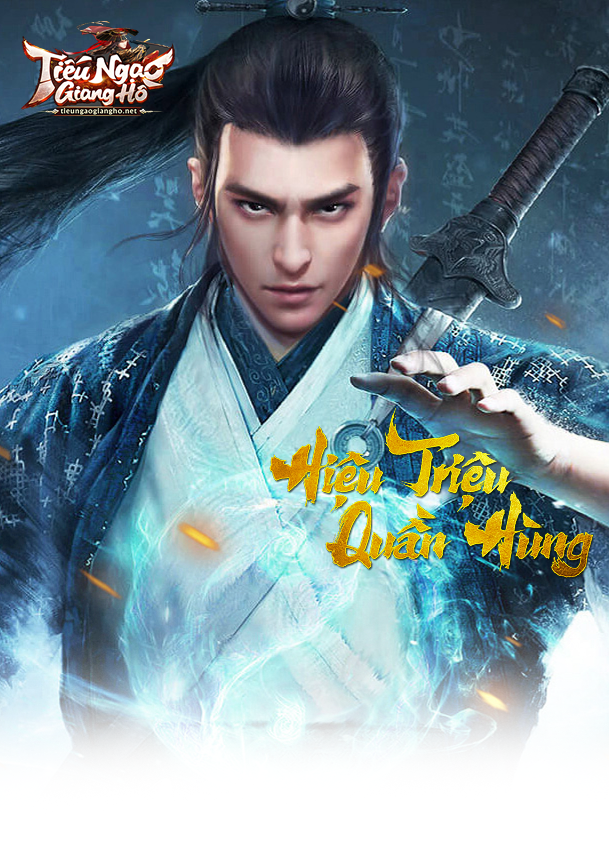
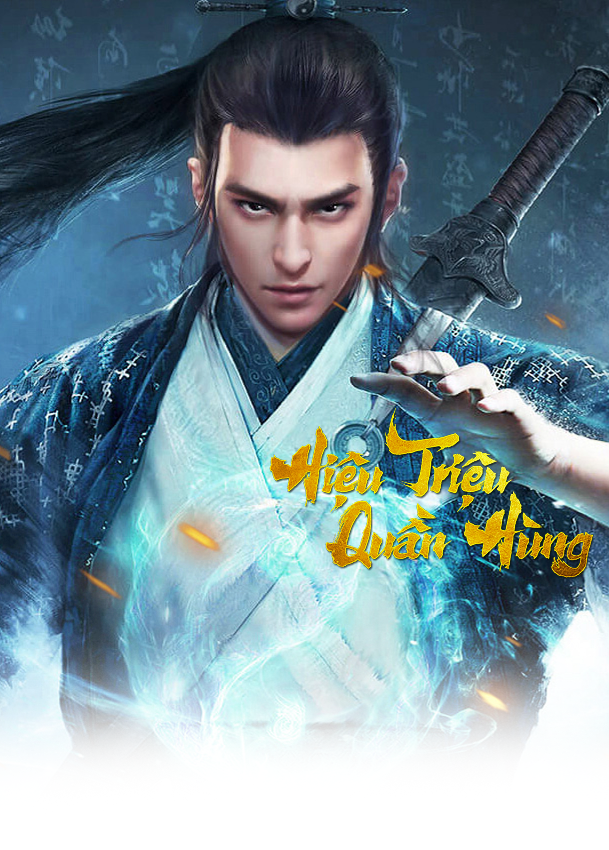
finnal lan 3

Changed region(s): [[0.0312, 0.0306, 0.2808, 0.1529]]

diff --git a/index.html b/index.html
@@ -22,12 +22,14 @@
 					backgroundImage: {
 						'bg1': "url('./images/section1/bg_section1.png')",
 						'bg2': "url('./images/section1/bg_right_section1.png')",
+						'bgSs2': "url('./images/section1/bg_section1.png')",
 						'bgMenu': "url('./images/section1/bg_menu_category.png')",
 						'bgNameMenu': "url('./images/section1/bg_category_active.png')",
 						'bgNameCate': "url('./images/section1/bg_name_category.png')",
 						'bgDate': "url('./images/section1/bg_post_date.png')",
 						'bgRemore': "url('./images/section1/bg_xem_them.png')",
 						'bgFooter': "url('./images/bg_bottom.jpg')",
+						'bgButton': "url('./images/section1/bg_bottom_menu.png')",
 					},
 					FontFamily: {
 						'roboto': ['Roboto', 'sans-serif'],
@@ -122,25 +124,30 @@
 			</div>
 		</div>
 	</div>
-	<div class="pt-12 w-full">
+	<div class="md:pt-24 lg:pt-12 xl:pt-12 w-full relative">
+		<div class="absolute top-24 left-8 md:top-28 md:left-12 lg:top-20 xl:left-20">
+			<a href="#" class="btn">
+				<img class="w-[80px] md:w-[120px] lg:w-[200px] xl:w-auto" src="./images/logo.png" alt="">
+			</a>
+		</div>
 		<img class="hidden md:block  w-full" src="./images/banner.png" alt="">
 		<img class="md:hidden  w-full" src="./images/banner-mb.png" alt="">
 	</div>
-	<div class="xl:-mt-40 relative">
-		<div class="absolute top-[20%] left-0 w-full h-full"> 
+	<div style="background-size: 110% 100%;" class="xl:-mt-40 relative bg-bgSs2 bg-no-repeat xl:bg-none">
+		<div class="absolute top-[20%] left-0 w-full h-full z-[-1]"> 
 			<img src="./images/BG_center.png" alt="">
 		</div>
-		<div class="lg:max-w-[900px] xl:max-w-[1200px] mx-auto lg:mb-14 lg:flex lg:flex-row flex-col px-2 relative lg:gap-3">
+		<div class="lg:max-w-[900px] xl:max-w-[1200px] mx-auto lg:mb-14 lg:flex lg:flex-row flex-col py-2 px-2 relative lg:gap-3">
 			<div class="absolute top-0 left-6 w-full h-full xl:scale-[115%] z-[0] hidden xl:block">
 				<img src="./images/section1/bg_section1.png" alt="">
 			</div>
 			<div class="box1-left w-[95%] md:w-[80%] xl:w-[45%] flex flex-col gap-2.5 mx-auto relative z-10">
-				<div class="box-left1 flex gap-2.5 items-center">
+				<div class="box-left1 flex gap-0.5 items-center">
 					<div class="box-left1_dl">
 						<a href="http://" class="btn" target="_blank" rel="noopener noreferrer"><img
 								src="./images/section1/btn_download.png" alt=""></a>
 					</div>
-					<div class="flex gap-2.5 flex-col ">
+					<div class="flex gap-0.5 flex-col ">
 						<div>
 							<a href="http://" class="btn" target="_blank" rel="noopener noreferrer"><img
 									src="./images/section1/btn_register.png" alt=""></a>
@@ -169,48 +176,68 @@
 					<!-- Pagination -->
 					<div class="swiper-pagination"></div>
 				</div>
-				<div class="flex flex-wrap justify-center items-center">
+				<div style="background-size: 100% 100%;" class="flex flex-wrap justify-center items-center bg-bgButton bg-cover bg-center">
 					<div class="w-[50%] translate-y-[2px]">
-						<a href=""><img src="./images/section1/tanthu.png" alt=""></a>
+						<a href="" class="btn">
+							<div class="flex p-2 justify-center items-center gap-3 text-[16px] md:text-[20px] font-bold text-white hover:text-yellow-500">
+								<img class="w-10 md:w-auto" src="./images//section1/icon_tanthu.png" alt="">
+								<p >Tân Thủ</p>
+							</div>
+						</a>
 					</div>
 					<div class="w-[50%] translate-y-[1px]">
-						<a href=""><img src="./images/section1/tinhnang.png" alt=""></a>
+						<a href="" class="btn">
+							<div class="flex p-2 justify-center items-center gap-3 text-[16px] md:text-[20px] font-bold text-white hover:text-yellow-500">
+								<img class="w-10 md:w-auto" src="./images//section1/icon_tinh_nang.png" alt="">
+								<p>Tính năng</p>
+							</div>
+						</a>
 					</div>
 					<div class="w-[50%]">
-						<a href=""><img src="./images/section1/giftcode.png" alt=""></a>
+						<a href="" class="btn">
+							<div class="flex p-2 justify-center items-center gap-3 text-[16px] md:text-[20px] font-bold text-white hover:text-yellow-500">
+								<img class="w-10 md:w-auto" src="./images//section1/icon_gift.png" alt="">
+								<p>GiftCode</p>
+							</div>
+						</a>
 					</div>
 					<div class="w-[50%]">
-						<a href=""><img src="./images/section1/fanpage.png" alt=""></a>
+						<a href="" class="btn">
+							<div class="flex p-2 justify-center items-center gap-3 text-[16px] md:text-[20px] font-bold text-white hover:text-yellow-500">
+								<img class="w-10 md:w-auto" src="./images//section1/icon_fanpage.png" alt="">
+								<p>Fanpage</p>
+							</div>
+						</a>
 					</div>
 				</div>
 			</div>
-			<div class="box1-right w-[95%] md:w-[80%] xl:w-[55%] bg-bg2 pt-24 mx-auto bg-no-repeat relative z-10">
+			<div class="box1-right w-[95%] md:w-[80%] xl:w-[55%] bg-bg2 pt-24 mx-auto bg-no-repeat relative z-10 lg:-mt-1">
 				
 				<div class="w-full">
-					<div class="flex bg-bgMenu bg-cover bg-no-repeat justify-between py-2 lg:py-0">
+					<div class="flex bg-bgMenu bg-cover bg-no-repeat justify-between py-2 lg:py-0 lg:px-1">
 						<button
-							class="w-[20%] tab-btn sm:px-4 sm:py-2 text-white font-bold focus:outline-none bg-bgNameMenu bg-contain bg-no-repeat bg-center text-[13px] lg:text-[10px] xl:text-[16px]"
+							class="w-[20%] tab-btn xl:px-4 sm:py-2 text-white font-bold focus:outline-none bg-bgNameMenu bg-contain bg-no-repeat bg-center text-[11px] lg:text-[10px] xl:text-[16px]"
 							data-tab="tab1">Tất cả</button>
 						<button
-							class="w-[20%] tab-btn sm:px-4 sm:py-2 text-yellow-500 font-bold hover:text-yellow-600 text-[13px] lg:text-[10px] xl:text-[16px] focus:outline-none"
+							class="w-[20%] tab-btn xl:px-4 sm:py-2 text-yellow-500 font-bold hover:text-yellow-600 text-[11px] lg:text-[10px] xl:text-[16px] focus:outline-none"
 							data-tab="tab2">Thông báo</button>
 						<button
-							class="w-[20%] tab-btn sm:px-4 sm:py-2 text-yellow-500 font-bold hover:text-yellow-600 text-[13px] lg:text-[10px] xl:text-[16px] focus:outline-none"
+							class="w-[20%] tab-btn xl:px-4 sm:py-2 text-yellow-500 font-bold hover:text-yellow-600 text-[11px] lg:text-[10px] xl:text-[16px] focus:outline-none"
 							data-tab="tab3">Sự Kiện</button>
 						<button
-							class="w-[20%] tab-btn sm:px-4 sm:py-2 text-yellow-500 font-bold hover:text-yellow-600 text-[13px] lg:text-[10px] xl:text-[16px] focus:outline-none"
+							class="w-[20%] tab-btn xl:px-4 sm:py-2 text-yellow-500 font-bold hover:text-yellow-600 text-[11px] lg:text-[10px] xl:text-[16px] focus:outline-none"
 							data-tab="tab3">Tính Năng</button>
 						<button
-							class="w-[20%] tab-btn sm:px-4 sm:py-2 text-yellow-500 font-bold hover:text-yellow-600 text-[13px] lg:text-[10px] xl:text-[16px]focus:outline-none "
+							class="w-[20%] tab-btn xl:px-4 sm:py-2 text-yellow-500 font-bold hover:text-yellow-600 text-[11px] lg:text-[10px] xl:text-[16px]focus:outline-none "
 							data-tab="tab3">Hướng Dẫn</button>
 					</div>
 	
 					<!-- Tab Contents -->
-					<div class="tab-content mt-4 p-2 px-5 flex gap-5 flex-col" id="tab1">
+					<div class="tab-content mt-4 p-2 px-5 flex gap-3 flex-col" id="tab1">
 						<div class="flex flex-col gap-3 lg:block">
 							<div class="flex gap-2">
 								<div class="w-[30%]">
-									<a href="#"><img class="lg:h-28" src="./images/section1/thumbnai.png" alt=""></a>
+									<a href="#"><img class="lg-h2-0 xl:h-28" src="./images/section1/thumbnai.png" alt=""></a>
 								</div>
 								<div class="w-[70%]">
 									<div class="leading-none">
@@ -232,7 +259,7 @@
 									</div>
 									<div class="text-right mt-2">
 										<span
-											class="text-center text-white bg-bgDate inline-block w-24 lg:w-32 bg-no-repeat bg-cover py-1.5 font-bold text-[12px] lg:text-[14px]">10-5-2025</span>
+											class="text-center text-white bg-bgDate inline-block w-24 lg:w-32 bg-no-repeat bg-cover lg:py-1 xl:py-1.5 font-bold text-[12px] lg:text-[12px] xl:text-[14px]">10-5-2025</span>
 									</div>
 								</div>
 							</div>
@@ -245,16 +272,52 @@
 							</a>
 						</div>
 					</div>
-					<div class="tab-content mt-4 hidden p-2 px-5" id="tab2">
-						
+					<div class="tab-content mt-4 p-2 px-5 flex gap-3 flex-col" id="tab2">
+						<div class="flex flex-col gap-3 lg:block">
+							<div class="flex gap-2">
+								<div class="w-[30%]">
+									<a href="#"><img class="lg-h2-0 xl:h-28" src="./images/section1/thumbnai.png" alt=""></a>
+								</div>
+								<div class="w-[70%]">
+									<div class="leading-none">
+										<a href="#">
+											<div
+												class="inline-block py-1 px-2 bg-bgNameCate bg-contain bg-center bg-no-repeat text-[15px] lg:text-[13px] xl:text-[18px] lg:w-20 xl:w-24 text-center text-white font-bold">
+												Sự Kiện
+											</div>
+										</a>
+										<a href="#">
+											<div class="inline text-[11px] lg:text-[14px] xl:text-[20px] font-bold capitalize">
+												Sự kiện vòng quay may mắn tháng 4 | Kiếm thiên mobile
+											</div>
+										</a>
+									</div>
+									<div class="text-blog font-semibold text-[10px] lg:text-[12px] xl:text-[14px] leading-tight">
+										Muôi xinh đẹp xin gửi đến các quý anh hùng thông tin về sự kiện vòng quay may mắn
+										tháng 4, với rất nhiều sự lưa chọn và phần thưởng hấp dẫn
+									</div>
+									<div class="text-right mt-2">
+										<span
+											class="text-center text-white bg-bgDate inline-block w-24 lg:w-32 bg-no-repeat bg-cover lg:py-1 xl:py-1.5 font-bold text-[12px] lg:text-[12px] xl:text-[14px]">10-5-2025</span>
+									</div>
+								</div>
+							</div>
+							
+						</div>
+						<div class="text-right">
+							<a href="#"
+								class="text-center text-white bg-bgRemore inline-block w-32 bg-no-repeat bg-cover py-1.5 font-semibold">
+								Xem thêm
+							</a>
+						</div>
 					</div>
-					<div class="tab-content mt-4 hidden p-2 px-5" id="tab3">
+					<div class="tab-content mt-4 p-2 px-5 flex gap-3 flex-col" id="tab3">
 						<p class="text-gray-700">Nội dung Tab 3: Đây là phần nội dung thứ ba</p>
 					</div>
-					<div class="tab-content mt-4 hidden p-2 px-5" id="tab4">
+					<div class="tab-content mt-4 p-2 px-5 flex gap-3 flex-col" id="tab4">
 						<p class="text-gray-700">Nội dung Tab 2: Đây là phần nội dung thứ tư</p>
 					</div>
-					<div class="tab-content mt-4 hidden p-2 px-5" id="tab5">
+					<div class="tab-content mt-4 p-2 px-5 flex gap-3 flex-col" id="tab5">
 						<p class="text-gray-700">Nội dung Tab 3: Đây là phần nội dung thứ năm</p>
 					</div>
 				</div>

diff --git a/css/style.css b/css/style.css
@@ -69,6 +69,12 @@ ul {
     padding: 20px 0px;
 }
 
+.main-menu li:hover {
+    background: url(../images/bg_nav_item_active.png) no-repeat center center;
+    background-size: cover;
+    cursor: pointer;
+}
+
 .main-menu > li > a {
     display: block;
     color: white;
@@ -340,6 +346,8 @@ ul {
     justify-content: center;
     align-items: center;
     margin-bottom: 20px;
+    position: relative;
+    z-index: 1;
 }
 
 .dieuhuong {
@@ -408,7 +416,7 @@ ul {
 
 .swiper2 .swiper-slide {
     width: 18.75rem;
-    height: 25rem;
+    height: 27rem;
     display: flex;
     flex-direction: column;
     justify-content: end;
@@ -453,7 +461,7 @@ ul {
 }
 
 
-@media screen and (min-width: 93.75rem) {
+@media screen and (min-width: 1440px) {
     .swiper2 {
         width: 85%;
     }
@@ -473,7 +481,7 @@ ul {
 
     .swiper2 .swiper-slide {
         width: 18.75rem;
-        height: 20rem;
+        height: 19rem;
         display: flex;
         flex-direction: column;
         justify-content: end;
@@ -481,8 +489,18 @@ ul {
         position: relative;
     }
 }
-
-@media (max-width: 1440px) {
+@media (max-width: 1024px) {
+    .swiper2 .swiper-slide {
+        width: 18.75rem;
+        height: 17rem;
+        display: flex;
+        flex-direction: column;
+        justify-content: end;
+        align-items: self-start;
+        position: relative;
+    }
+}
+@media (max-width: 768px) {
     .box2 {
         max-width: 1300px;
         margin: 0 auto;
@@ -496,7 +514,7 @@ ul {
 
     .swiper2 .swiper-slide {
         width: 18.75rem;
-        height: 14rem;
+        height: 13rem;
         display: flex;
         flex-direction: column;
         justify-content: end;
